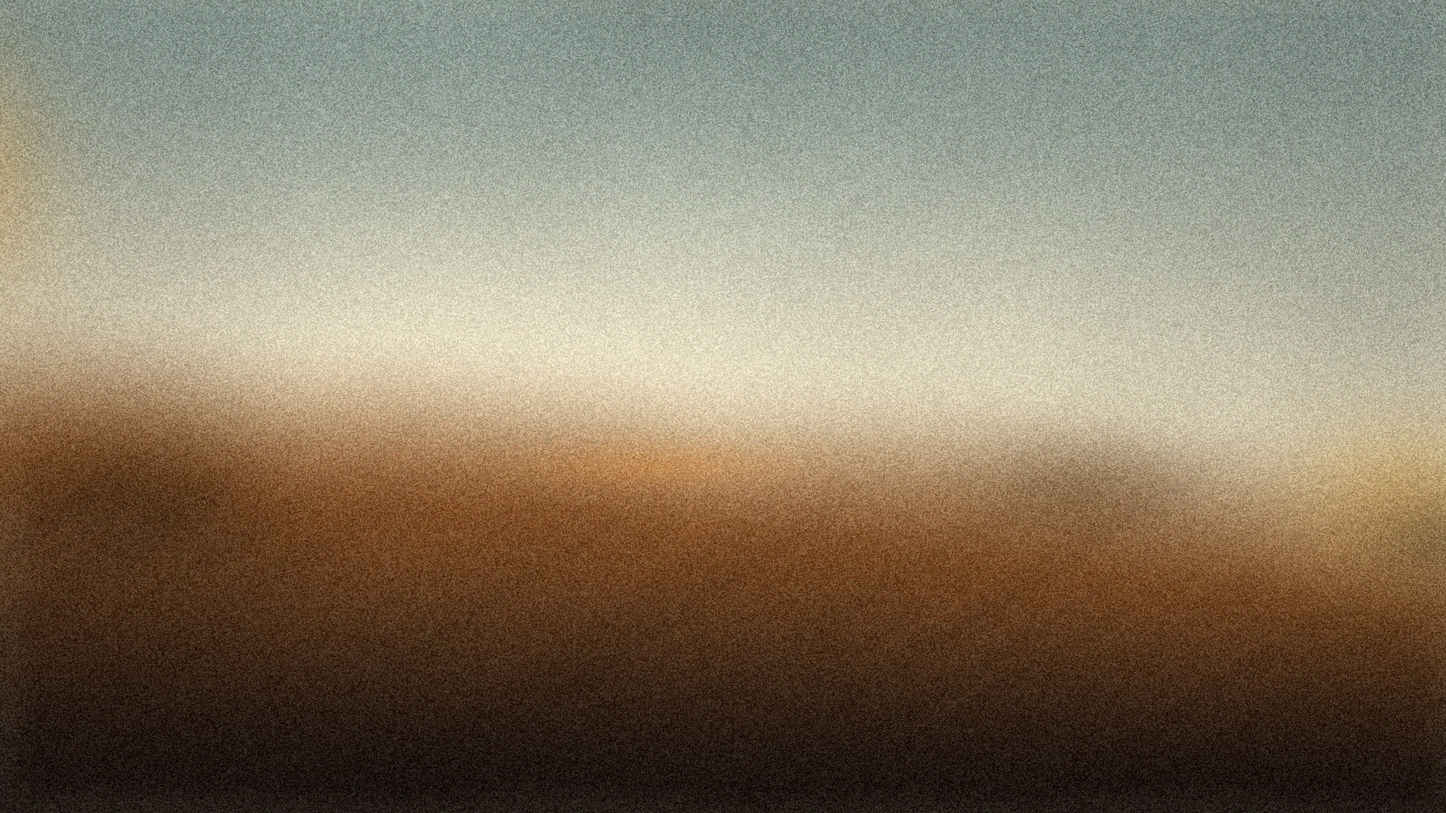
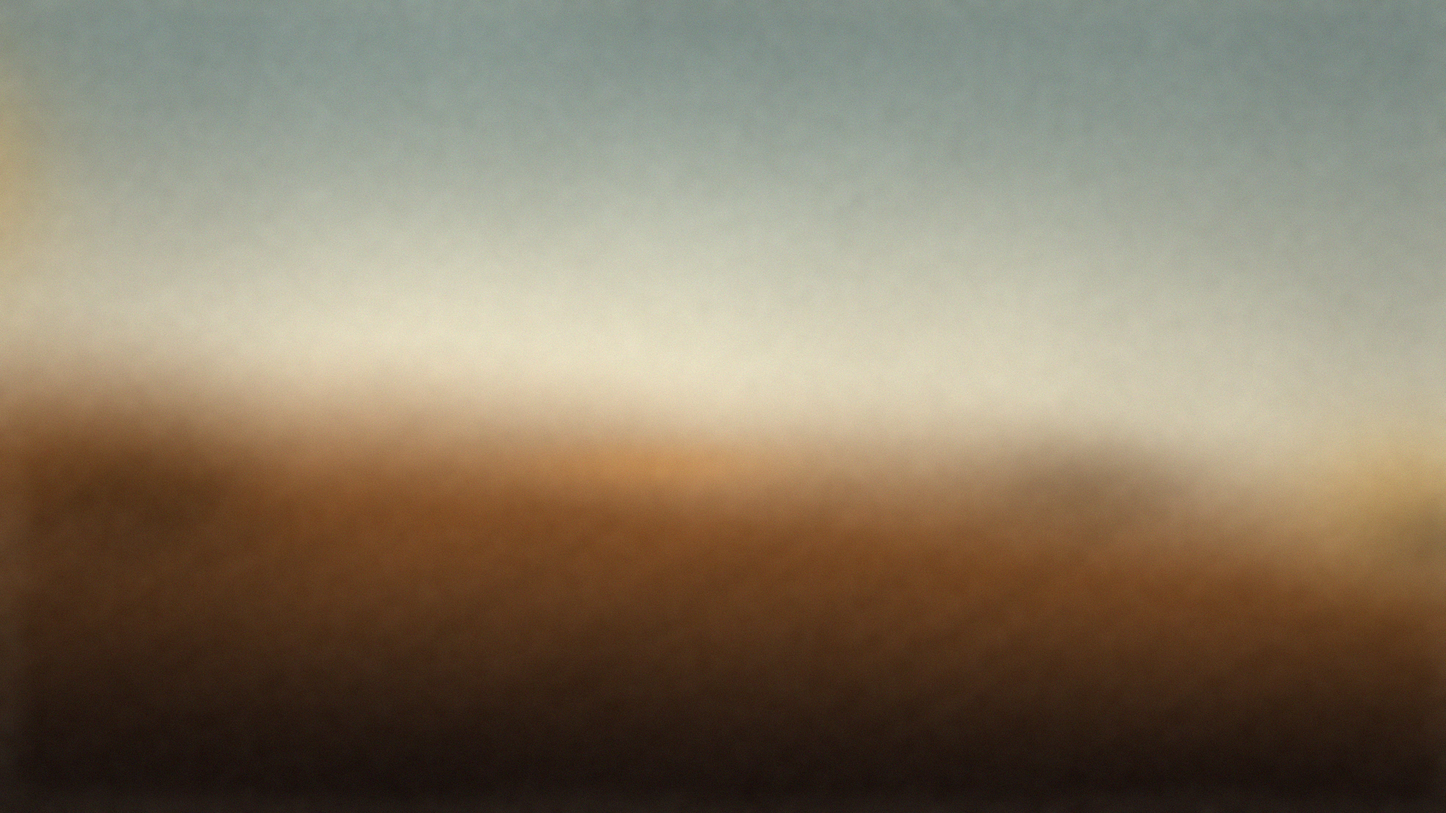
Take the grain back off the Haze backgrounds
They shipped at a flattest-patch luminance sigma near 10, where the rest of
the catalogue sits at 2.5 to 2.9. That is not the dither the backgrounds
skill asks for, it is noise over the top of it: coarse enough to read as
texture at 1:1 and to survive a downsample to 640px.

Blurred wide enough to clear the clumps, then re-dithered to 2.72-2.89 and
encoded at quality 82 — these are smooth ramps with no detail in them, so
the blur costs nothing, and the grain has to go back or the ramp bands in
the export. Same file names, because a project stores the name. 24.3 MB to
8.7 MB, already uploaded to R2.

diff --git a/.changeset/haze-regrain.md b/.changeset/haze-regrain.md
@@ -1,0 +1,5 @@
+---
+"@prequel/desktop": patch
+---
+
+The ten Haze backgrounds are clean again — the heavy grain is gone and the colours are unchanged.
